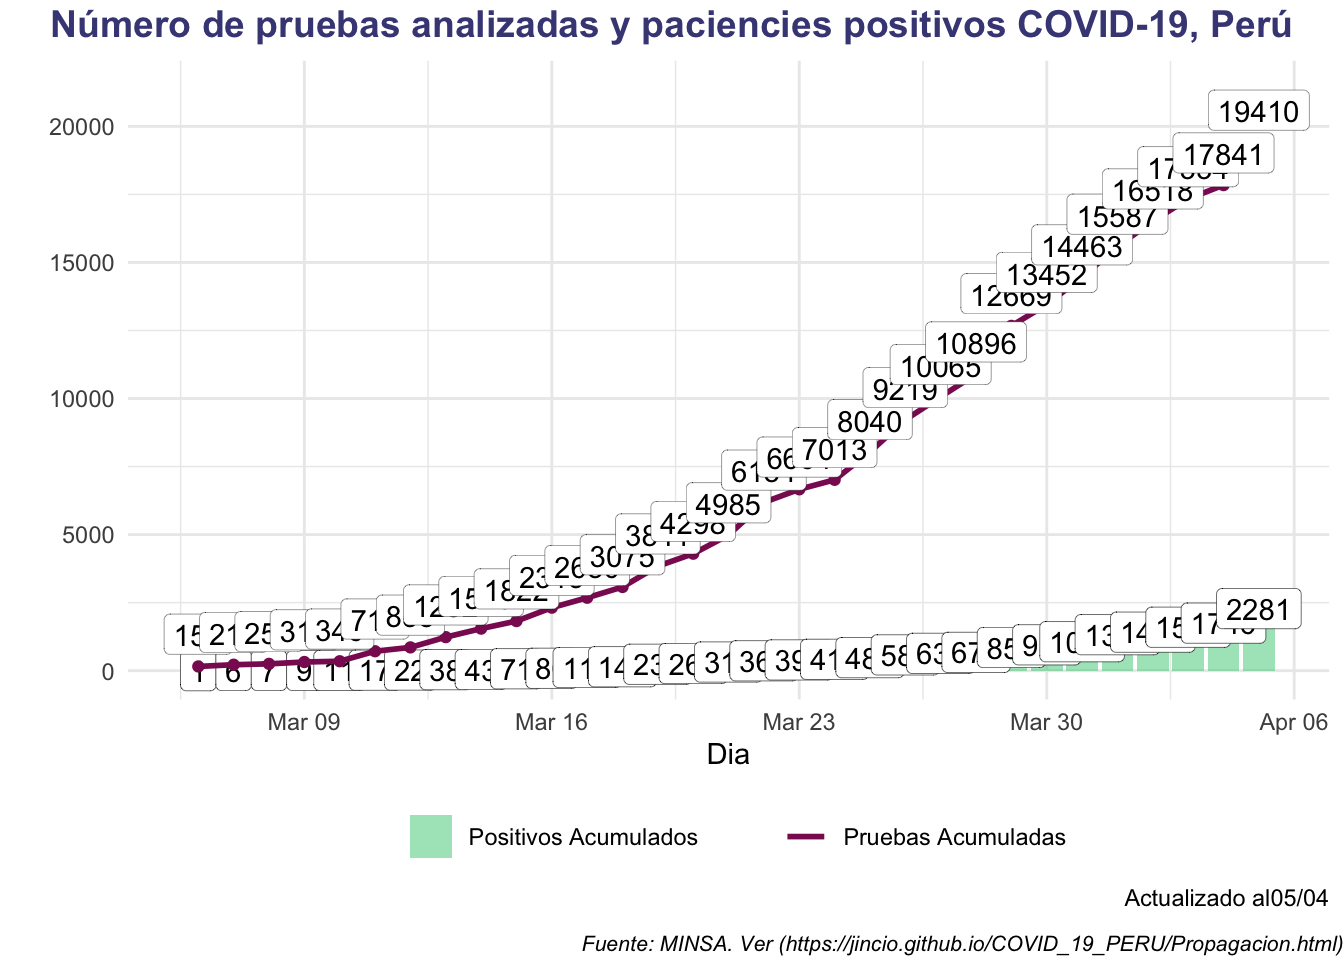
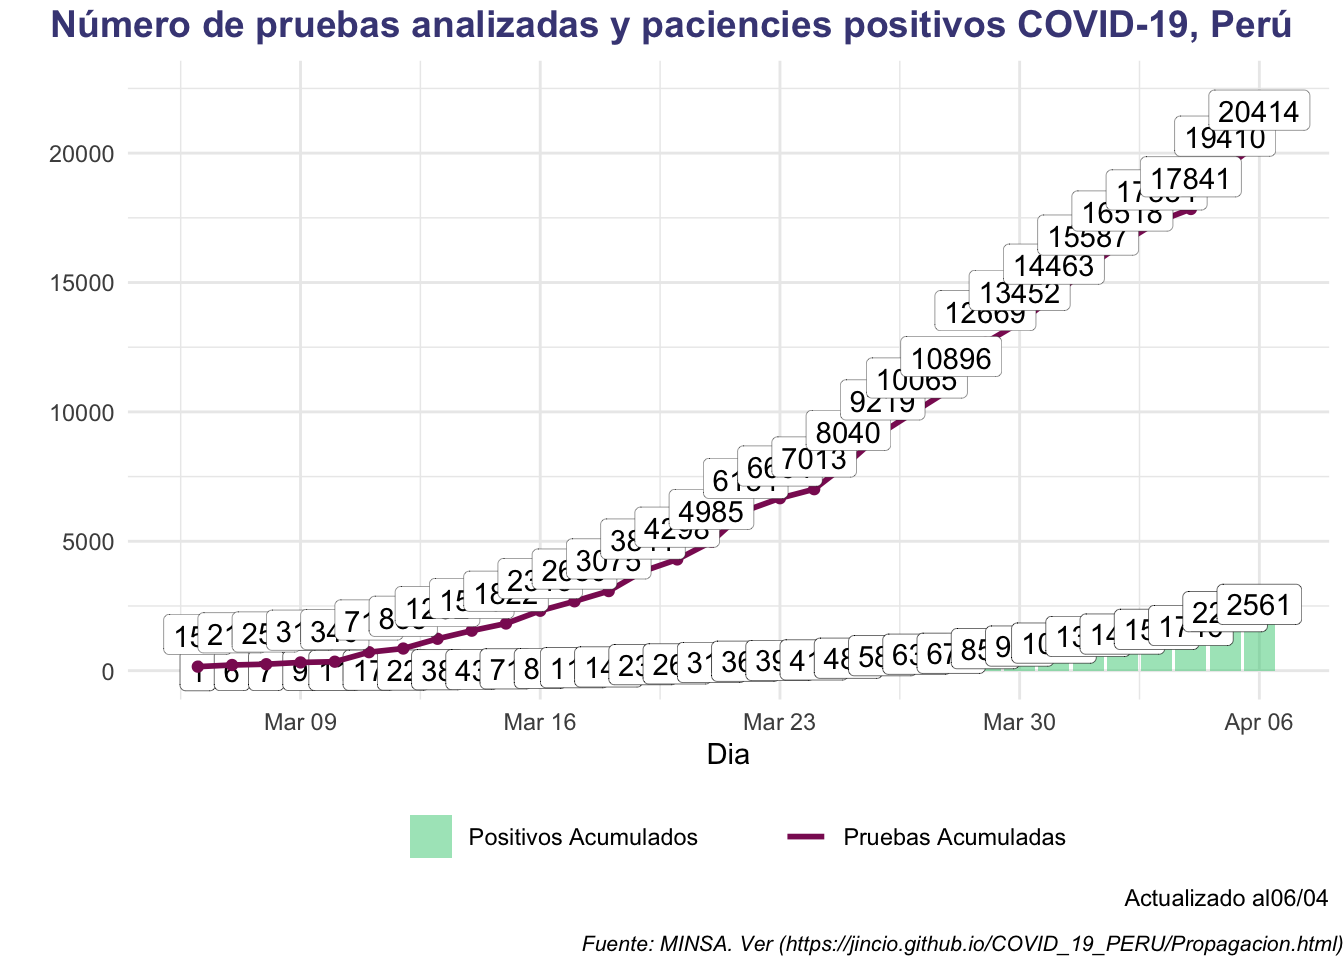
update 06_04

diff --git a/docs/Departamentos.html b/docs/Departamentos.html
@@ -405,8 +405,8 @@ div.tocify {
 </div>
 <div id="tabla" class="section level1">
 <h1><span class="header-section-number">3</span> Tabla</h1>
-<div id="htmlwidget-09f57af056a2a5411986" style="width:100%;height:auto;" class="datatables html-widget"></div>
-<script type="application/json" data-for="htmlwidget-09f57af056a2a5411986">{"x":{"filter":"none","data":[["LIMA","LORETO","LAMBAYEQUE","CALLAO","CUSCO","AREQUIPA","LA LIBERTAD","PIURA","TUMBES","JUNIN","ANCASH","ICA","TACNA","SAN MARTIN","CAJAMARCA","HUANUCO","AYACUCHO","PASCO","MADRE DE DIOS","HUANCAVELICA","APURIMAC","MOQUEGUA","LIMA","LORETO","CALLAO","LAMBAYEQUE","LA LIBERTAD","CUSCO","AREQUIPA","PIURA","JUNIN","TUMBES","ANCASH","ICA","SAN MARTIN","CAJAMARCA","HUANUCO","TACNA","MADRE DE DIOS","PASCO","AYACUCHO","HUANCAVELICA","APURIMAC","LIMA","LORETO","CALLAO","CUSCO","LA LIBERTAD","AREQUIPA","LAMBAYEQUE","PIURA","JUNIN","ANCASH","TUMBES","ICA","HUANUCO","SAN MARTIN","CAJAMARCA","TACNA","MADRE DE DIOS","AYACUCHO","HUANCAVELICA","PASCO","APURIMAC","LIMA","LORETO","CALLAO","CUSCO","LAMBAYEQUE","LA LIBERTAD","AREQUIPA","PIURA","JUNIN","ANCASH","TUMBES","ICA","HUANUCO","SAN MARTIN","CAJAMARCA","TACNA","MADRE DE DIOS","PASCO","AYACUCHO","HUANCAVELICA","LIMA","LORETO","CALLAO","LAMBAYEQUE","CUSCO","LA LIBERTAD","AREQUIPA","PIURA","JUNIN","ANCASH","TUMBES","ICA","HUANUCO","SAN MARTIN","TACNA","CAJAMARCA","MADRE DE DIOS","PASCO","AYACUCHO","HUANCAVELICA","LIMA","LORETO","LAMBAYEQUE","CUSCO","AREQUIPA","CALLAO","PIURA","LA LIBERTAD","JUNIN","ANCASH","TUMBES","HUANUCO","SAN MARTIN","ICA","TACNA","MADRE DE DIOS","CAJAMARCA","PASCO","AYACUCHO","LIMA","LORETO","CUSCO","CALLAO","LAMBAYEQUE","PIURA","AREQUIPA","LA LIBERTAD","JUNIN","ANCASH","TUMBES","ICA","SAN MARTIN","HUANUCO","MADRE DE DIOS","CAJAMARCA","PASCO","TACNA","AYACUCHO","LIMA","LORETO","CALLAO","LAMBAYEQUE","PIURA","CUSCO","AREQUIPA","JUNIN","LA LIBERTAD","TUMBES","ANCASH","ICA","HUANUCO","SAN MARTIN","MADRE DE DIOS","CAJAMARCA","PASCO","TACNA","AYACUCHO","LIMA","LORETO","PIURA","CALLAO","LAMBAYEQUE","AREQUIPA","JUNIN","CUSCO","LA LIBERTAD","ANCASH","TUMBES","HUANUCO","ICA","SAN MARTIN","MADRE DE DIOS","CAJAMARCA","PASCO","LIMA","LORETO","PIURA","CALLAO","AREQUIPA","LAMBAYEQUE","JUNIN","CUSCO","LA LIBERTAD","ANCASH","TUMBES","HUANUCO","ICA","MADRE DE DIOS","SAN MARTIN","CAJAMARCA","PASCO","LIMA","PIURA","LORETO","CALLAO","AREQUIPA","LAMBAYEQUE","JUNIN","CUSCO","LA LIBERTAD","ANCASH","ICA","TUMBES","HUANUCO","MADRE DE DIOS","SAN MARTIN","CAJAMARCA","LIMA","PIURA","LORETO","LAMBAYEQUE","JUNIN","CALLAO","CUSCO","AREQUIPA","LA LIBERTAD","ANCASH","TUMBES","HUANUCO","ICA","MADRE DE DIOS","SAN MARTIN","CAJAMARCA","LIMA","PIURA","LORETO","JUNIN","AREQUIPA","LAMBAYEQUE","CALLAO","CUSCO","LA LIBERTAD","ANCASH","TUMBES","HUANUCO","ICA","MADRE DE DIOS","SAN MARTIN","LIMA","PIURA","LORETO","JUNIN","LAMBAYEQUE","CALLAO","AREQUIPA","CUSCO","LA LIBERTAD","ANCASH","HUANUCO","ICA","MADRE DE DIOS","SAN MARTIN","LIMA","PIURA","LORETO","JUNIN","LAMBAYEQUE","AREQUIPA","CALLAO","LA LIBERTAD","CUSCO","ANCASH","HUANUCO","ICA","MADRE DE DIOS","LIMA","PIURA","LORETO","JUNIN","LAMBAYEQUE","CALLAO","LA LIBERTAD","CUSCO","ANCASH","AREQUIPA","HUANUCO","ICA","MADRE DE DIOS","LIMA","LORETO","JUNIN","LAMBAYEQUE","CALLAO","CUSCO","ANCASH","AREQUIPA","HUANUCO","LA LIBERTAD","PIURA","ICA","MADRE DE DIOS","LIMA","LORETO","LAMBAYEQUE","CALLAO","ANCASH","CUSCO","AREQUIPA","LA LIBERTAD","HUANUCO","PIURA","ICA","MADRE DE DIOS","SAN MARTIN","LIMA","LORETO","LAMBAYEQUE","CALLAO","ANCASH","AREQUIPA","HUANUCO","LA LIBERTAD","PIURA","CUSCO","ICA","MADRE DE DIOS","LIMA","LAMBAYEQUE","CALLAO","AREQUIPA","HUANUCO","PIURA","ANCASH","CUSCO","ICA","LA LIBERTAD","LORETO","LIMA","CALLAO","LAMBAYEQUE","AREQUIPA","HUANUCO","PIURA","ANCASH","CUSCO","ICA","LA LIBERTAD","LIMA","AREQUIPA","CALLAO","HUANUCO","PIURA","ANCASH","CUSCO","ICA","LA LIBERTAD","LAMBAYEQUE","LIMA","AREQUIPA","HUANUCO","CUSCO","ICA","LIMA","AREQUIPA","HUANUCO","CUSCO","ICA","LIMA","LIMA","LIMA","LIMA","LIMA","LIMA","LIMA"],[1639,143,100,89,52,51,50,29,26,25,23,14,9,8,6,6,3,3,2,1,1,1,1257,106,64,55,50,48,37,27,25,20,18,9,8,6,6,3,2,2,1,1,1,1179,84,59,44,44,37,35,27,19,18,16,8,6,6,4,3,2,1,1,1,1,1059,72,40,38,37,34,30,27,17,15,15,8,6,6,3,3,1,1,1,1,990,66,37,34,34,32,30,26,17,15,13,8,6,6,3,2,1,1,1,1,799,58,30,26,26,25,21,19,17,11,10,6,6,5,2,1,1,1,1,718,53,25,24,22,21,21,15,13,11,8,5,5,4,1,1,1,1,1,639,52,29,22,21,17,15,13,13,8,6,5,4,3,1,1,1,1,1,518,27,20,18,15,15,12,11,10,6,6,4,4,2,1,1,1,494,23,20,17,15,13,12,10,9,6,5,4,3,1,1,1,1,453,20,18,15,15,12,11,10,9,6,3,3,2,1,1,1,369,19,18,12,11,10,10,10,6,5,3,2,2,1,1,1,322,19,16,10,9,8,8,6,5,4,3,2,2,1,1,307,19,16,10,8,8,7,6,4,4,2,2,1,1,278,19,16,10,8,7,6,5,4,4,4,1,1,241,18,14,10,8,6,5,4,4,4,2,1,1,212,12,9,6,5,4,4,3,2,2,2,1,1,193,11,6,5,4,4,3,2,2,2,1,1,1,111,10,6,5,2,2,2,2,2,1,1,1,96,6,4,2,2,2,1,1,1,1,1,70,3,3,2,2,2,1,1,1,1,58,2,2,2,2,1,1,1,1,1,37,2,2,1,1,32,2,2,1,1,22,17,11,9,7,6,1],["2020-04-05","2020-04-05","2020-04-05","2020-04-05","2020-04-05","2020-04-05","2020-04-05","2020-04-05","2020-04-05","2020-04-05","2020-04-05","2020-04-05","2020-04-05","2020-04-05","2020-04-05","2020-04-05","2020-04-05","2020-04-05","2020-04-05","2020-04-05","2020-04-05","2020-04-05","2020-04-04","2020-04-04","2020-04-04","2020-04-04","2020-04-04","2020-04-04","2020-04-04","2020-04-04","2020-04-04","2020-04-04","2020-04-04","2020-04-04","2020-04-04","2020-04-04","2020-04-04","2020-04-04","2020-04-04","2020-04-04","2020-04-04","2020-04-04","2020-04-04","2020-04-03","2020-04-03","2020-04-03","2020-04-03","2020-04-03","2020-04-03","2020-04-03","2020-04-03","2020-04-03","2020-04-03","2020-04-03","2020-04-03","2020-04-03","2020-04-03","2020-04-03","2020-04-03","2020-04-03","2020-04-03","2020-04-03","2020-04-03","2020-04-03","2020-04-02","2020-04-02","2020-04-02","2020-04-02","2020-04-02","2020-04-02","2020-04-02","2020-04-02","2020-04-02","2020-04-02","2020-04-02","2020-04-02","2020-04-02","2020-04-02","2020-04-02","2020-04-02","2020-04-02","2020-04-02","2020-04-02","2020-04-02","2020-04-01","2020-04-01","2020-04-01","2020-04-01","2020-04-01","2020-04-01","2020-04-01","2020-04-01","2020-04-01","2020-04-01","2020-04-01","2020-04-01","2020-04-01","2020-04-01","2020-04-01","2020-04-01","2020-04-01","2020-04-01","2020-04-01","2020-04-01","2020-03-31","2020-03-31","2020-03-31","2020-03-31","2020-03-31","2020-03-31","2020-03-31","2020-03-31","2020-03-31","2020-03-31","2020-03-31","2020-03-31","2020-03-31","2020-03-31","2020-03-31","2020-03-31","2020-03-31","2020-03-31","2020-03-31","2020-03-30","2020-03-30","2020-03-30","2020-03-30","2020-03-30","2020-03-30","2020-03-30","2020-03-30","2020-03-30","2020-03-30","2020-03-30","2020-03-30","2020-03-30","2020-03-30","2020-03-30","2020-03-30","2020-03-30","2020-03-30","2020-03-30","2020-03-29","2020-03-29","2020-03-29","2020-03-29","2020-03-29","2020-03-29","2020-03-29","2020-03-29","2020-03-29","2020-03-29","2020-03-29","2020-03-29","2020-03-29","2020-03-29","2020-03-29","2020-03-29","2020-03-29","2020-03-29","2020-03-29","2020-03-28","2020-03-28","2020-03-28","2020-03-28","2020-03-28","2020-03-28","2020-03-28","2020-03-28","2020-03-28","2020-03-28","2020-03-28","2020-03-28","2020-03-28","2020-03-28","2020-03-28","2020-03-28","2020-03-28","2020-03-27","2020-03-27","2020-03-27","2020-03-27","2020-03-27","2020-03-27","2020-03-27","2020-03-27","2020-03-27","2020-03-27","2020-03-27","2020-03-27","2020-03-27","2020-03-27","2020-03-27","2020-03-27","2020-03-27","2020-03-26","2020-03-26","2020-03-26","2020-03-26","2020-03-26","2020-03-26","2020-03-26","2020-03-26","2020-03-26","2020-03-26","2020-03-26","2020-03-26","2020-03-26","2020-03-26","2020-03-26","2020-03-26","2020-03-25","2020-03-25","2020-03-25","2020-03-25","2020-03-25","2020-03-25","2020-03-25","2020-03-25","2020-03-25","2020-03-25","2020-03-25","2020-03-25","2020-03-25","2020-03-25","2020-03-25","2020-03-25","2020-03-24","2020-03-24","2020-03-24","2020-03-24","2020-03-24","2020-03-24","2020-03-24","2020-03-24","2020-03-24","2020-03-24","2020-03-24","2020-03-24","2020-03-24","2020-03-24","2020-03-24","2020-03-23","2020-03-23","2020-03-23","2020-03-23","2020-03-23","2020-03-23","2020-03-23","2020-03-23","2020-03-23","2020-03-23","2020-03-23","2020-03-23","2020-03-23","2020-03-23","2020-03-22","2020-03-22","2020-03-22","2020-03-22","2020-03-22","2020-03-22","2020-03-22","2020-03-22","2020-03-22","2020-03-22","2020-03-22","2020-03-22","2020-03-22","2020-03-21","2020-03-21","2020-03-21","2020-03-21","2020-03-21","2020-03-21","2020-03-21","2020-03-21","2020-03-21","2020-03-21","2020-03-21","2020-03-21","2020-03-21","2020-03-20","2020-03-20","2020-03-20","2020-03-20","2020-03-20","2020-03-20","2020-03-20","2020-03-20","2020-03-20","2020-03-20","2020-03-20","2020-03-20","2020-03-20","2020-03-19","2020-03-19","2020-03-19","2020-03-19","2020-03-19","2020-03-19","2020-03-19","2020-03-19","2020-03-19","2020-03-19","2020-03-19","2020-03-19","2020-03-19","2020-03-18","2020-03-18","2020-03-18","2020-03-18","2020-03-18","2020-03-18","2020-03-18","2020-03-18","2020-03-18","2020-03-18","2020-03-18","2020-03-18","2020-03-17","2020-03-17","2020-03-17","2020-03-17","2020-03-17","2020-03-17","2020-03-17","2020-03-17","2020-03-17","2020-03-17","2020-03-17","2020-03-16","2020-03-16","2020-03-16","2020-03-16","2020-03-16","2020-03-16","2020-03-16","2020-03-16","2020-03-16","2020-03-16","2020-03-15","2020-03-15","2020-03-15","2020-03-15","2020-03-15","2020-03-15","2020-03-15","2020-03-15","2020-03-15","2020-03-15","2020-03-14","2020-03-14","2020-03-14","2020-03-14","2020-03-14","2020-03-13","2020-03-13","2020-03-13","2020-03-13","2020-03-13","2020-03-12","2020-03-11","2020-03-10","2020-03-09","2020-03-08","2020-03-07","2020-03-06"]],"container":"<table class=\"display\">\n  <thead>\n    <tr>\n      <th>REGION<\/th>\n      <th>Positivos<\/th>\n      <th>Dia<\/th>\n    <\/tr>\n  <\/thead>\n<\/table>","options":{"pageLength":10,"lengthMenu":[10,25,40],"language":{"lengthMenu":"Mostrar _MENU_ entradas","info":"Mostrando _START_ al _END_ de _TOTAL_ entradas","search":"Buscar:","paginate":{"previous":"Anterior","next":"Siguiente"}},"columnDefs":[{"className":"dt-right","targets":1}],"order":[],"autoWidth":false,"orderClasses":false}},"evals":[],"jsHooks":[]}</script>
+<div id="htmlwidget-8e93b0070efe15a7f5c4" style="width:100%;height:auto;" class="datatables html-widget"></div>
+<script type="application/json" data-for="htmlwidget-8e93b0070efe15a7f5c4">{"x":{"filter":"none","data":[["LIMA","LORETO","CALLAO","LAMBAYEQUE","AREQUIPA","LA LIBERTAD","CUSCO","PIURA","JUNIN","ANCASH","TUMBES","ICA","TACNA","SAN MARTIN","CAJAMARCA","HUANUCO","AYACUCHO","PASCO","HUANCAVELICA","MADRE DE DIOS","APURIMAC","MOQUEGUA","LIMA","LORETO","LAMBAYEQUE","CALLAO","CUSCO","AREQUIPA","LA LIBERTAD","PIURA","TUMBES","JUNIN","ANCASH","ICA","TACNA","SAN MARTIN","CAJAMARCA","HUANUCO","AYACUCHO","PASCO","MADRE DE DIOS","HUANCAVELICA","APURIMAC","MOQUEGUA","LIMA","LORETO","CALLAO","LAMBAYEQUE","LA LIBERTAD","CUSCO","AREQUIPA","PIURA","JUNIN","TUMBES","ANCASH","ICA","SAN MARTIN","CAJAMARCA","HUANUCO","TACNA","MADRE DE DIOS","PASCO","AYACUCHO","HUANCAVELICA","APURIMAC","LIMA","LORETO","CALLAO","CUSCO","LA LIBERTAD","AREQUIPA","LAMBAYEQUE","PIURA","JUNIN","ANCASH","TUMBES","ICA","HUANUCO","SAN MARTIN","CAJAMARCA","TACNA","MADRE DE DIOS","AYACUCHO","HUANCAVELICA","PASCO","APURIMAC","LIMA","LORETO","CALLAO","CUSCO","LAMBAYEQUE","LA LIBERTAD","AREQUIPA","PIURA","JUNIN","ANCASH","TUMBES","ICA","HUANUCO","SAN MARTIN","CAJAMARCA","TACNA","MADRE DE DIOS","PASCO","AYACUCHO","HUANCAVELICA","LIMA","LORETO","CALLAO","LAMBAYEQUE","CUSCO","LA LIBERTAD","AREQUIPA","PIURA","JUNIN","ANCASH","TUMBES","ICA","HUANUCO","SAN MARTIN","TACNA","CAJAMARCA","MADRE DE DIOS","PASCO","AYACUCHO","HUANCAVELICA","LIMA","LORETO","LAMBAYEQUE","CUSCO","AREQUIPA","CALLAO","PIURA","LA LIBERTAD","JUNIN","ANCASH","TUMBES","HUANUCO","SAN MARTIN","ICA","TACNA","MADRE DE DIOS","CAJAMARCA","PASCO","AYACUCHO","LIMA","LORETO","CUSCO","CALLAO","LAMBAYEQUE","PIURA","AREQUIPA","LA LIBERTAD","JUNIN","ANCASH","TUMBES","ICA","SAN MARTIN","HUANUCO","MADRE DE DIOS","CAJAMARCA","PASCO","TACNA","AYACUCHO","LIMA","LORETO","CALLAO","LAMBAYEQUE","PIURA","CUSCO","AREQUIPA","JUNIN","LA LIBERTAD","TUMBES","ANCASH","ICA","HUANUCO","SAN MARTIN","MADRE DE DIOS","CAJAMARCA","PASCO","TACNA","AYACUCHO","LIMA","LORETO","PIURA","CALLAO","LAMBAYEQUE","AREQUIPA","JUNIN","CUSCO","LA LIBERTAD","ANCASH","TUMBES","HUANUCO","ICA","SAN MARTIN","MADRE DE DIOS","CAJAMARCA","PASCO","LIMA","LORETO","PIURA","CALLAO","AREQUIPA","LAMBAYEQUE","JUNIN","CUSCO","LA LIBERTAD","ANCASH","TUMBES","HUANUCO","ICA","MADRE DE DIOS","SAN MARTIN","CAJAMARCA","PASCO","LIMA","PIURA","LORETO","CALLAO","AREQUIPA","LAMBAYEQUE","JUNIN","CUSCO","LA LIBERTAD","ANCASH","ICA","TUMBES","HUANUCO","MADRE DE DIOS","SAN MARTIN","CAJAMARCA","LIMA","PIURA","LORETO","LAMBAYEQUE","JUNIN","CALLAO","CUSCO","AREQUIPA","LA LIBERTAD","ANCASH","TUMBES","HUANUCO","ICA","MADRE DE DIOS","SAN MARTIN","CAJAMARCA","LIMA","PIURA","LORETO","JUNIN","AREQUIPA","LAMBAYEQUE","CALLAO","CUSCO","LA LIBERTAD","ANCASH","TUMBES","HUANUCO","ICA","MADRE DE DIOS","SAN MARTIN","LIMA","PIURA","LORETO","JUNIN","LAMBAYEQUE","CALLAO","AREQUIPA","CUSCO","LA LIBERTAD","ANCASH","HUANUCO","ICA","MADRE DE DIOS","SAN MARTIN","LIMA","PIURA","LORETO","JUNIN","LAMBAYEQUE","AREQUIPA","CALLAO","LA LIBERTAD","CUSCO","ANCASH","HUANUCO","ICA","MADRE DE DIOS","LIMA","PIURA","LORETO","JUNIN","LAMBAYEQUE","CALLAO","LA LIBERTAD","CUSCO","ANCASH","AREQUIPA","HUANUCO","ICA","MADRE DE DIOS","LIMA","LORETO","JUNIN","LAMBAYEQUE","CALLAO","CUSCO","ANCASH","AREQUIPA","HUANUCO","LA LIBERTAD","PIURA","ICA","MADRE DE DIOS","LIMA","LORETO","LAMBAYEQUE","CALLAO","ANCASH","CUSCO","AREQUIPA","LA LIBERTAD","HUANUCO","PIURA","ICA","MADRE DE DIOS","SAN MARTIN","LIMA","LORETO","LAMBAYEQUE","CALLAO","ANCASH","AREQUIPA","HUANUCO","LA LIBERTAD","PIURA","CUSCO","ICA","MADRE DE DIOS","LIMA","LAMBAYEQUE","CALLAO","AREQUIPA","HUANUCO","PIURA","ANCASH","CUSCO","ICA","LA LIBERTAD","LORETO","LIMA","CALLAO","LAMBAYEQUE","AREQUIPA","HUANUCO","PIURA","ANCASH","CUSCO","ICA","LA LIBERTAD","LIMA","AREQUIPA","CALLAO","HUANUCO","PIURA","ANCASH","CUSCO","ICA","LA LIBERTAD","LAMBAYEQUE","LIMA","AREQUIPA","HUANUCO","CUSCO","ICA","LIMA","AREQUIPA","HUANUCO","CUSCO","ICA","LIMA","LIMA","LIMA","LIMA","LIMA","LIMA","LIMA"],[1837,171,109,100,60,56,54,30,28,27,26,18,9,8,6,6,5,5,2,2,1,1,1639,143,100,89,52,51,50,29,26,25,23,14,9,8,6,6,3,3,2,1,1,1,1257,106,64,55,50,48,37,27,25,20,18,9,8,6,6,3,2,2,1,1,1,1179,84,59,44,44,37,35,27,19,18,16,8,6,6,4,3,2,1,1,1,1,1059,72,40,38,37,34,30,27,17,15,15,8,6,6,3,3,1,1,1,1,990,66,37,34,34,32,30,26,17,15,13,8,6,6,3,2,1,1,1,1,799,58,30,26,26,25,21,19,17,11,10,6,6,5,2,1,1,1,1,718,53,25,24,22,21,21,15,13,11,8,5,5,4,1,1,1,1,1,639,52,29,22,21,17,15,13,13,8,6,5,4,3,1,1,1,1,1,518,27,20,18,15,15,12,11,10,6,6,4,4,2,1,1,1,494,23,20,17,15,13,12,10,9,6,5,4,3,1,1,1,1,453,20,18,15,15,12,11,10,9,6,3,3,2,1,1,1,369,19,18,12,11,10,10,10,6,5,3,2,2,1,1,1,322,19,16,10,9,8,8,6,5,4,3,2,2,1,1,307,19,16,10,8,8,7,6,4,4,2,2,1,1,278,19,16,10,8,7,6,5,4,4,4,1,1,241,18,14,10,8,6,5,4,4,4,2,1,1,212,12,9,6,5,4,4,3,2,2,2,1,1,193,11,6,5,4,4,3,2,2,2,1,1,1,111,10,6,5,2,2,2,2,2,1,1,1,96,6,4,2,2,2,1,1,1,1,1,70,3,3,2,2,2,1,1,1,1,58,2,2,2,2,1,1,1,1,1,37,2,2,1,1,32,2,2,1,1,22,17,11,9,7,6,1],["2020-04-06","2020-04-06","2020-04-06","2020-04-06","2020-04-06","2020-04-06","2020-04-06","2020-04-06","2020-04-06","2020-04-06","2020-04-06","2020-04-06","2020-04-06","2020-04-06","2020-04-06","2020-04-06","2020-04-06","2020-04-06","2020-04-06","2020-04-06","2020-04-06","2020-04-06","2020-04-05","2020-04-05","2020-04-05","2020-04-05","2020-04-05","2020-04-05","2020-04-05","2020-04-05","2020-04-05","2020-04-05","2020-04-05","2020-04-05","2020-04-05","2020-04-05","2020-04-05","2020-04-05","2020-04-05","2020-04-05","2020-04-05","2020-04-05","2020-04-05","2020-04-05","2020-04-04","2020-04-04","2020-04-04","2020-04-04","2020-04-04","2020-04-04","2020-04-04","2020-04-04","2020-04-04","2020-04-04","2020-04-04","2020-04-04","2020-04-04","2020-04-04","2020-04-04","2020-04-04","2020-04-04","2020-04-04","2020-04-04","2020-04-04","2020-04-04","2020-04-03","2020-04-03","2020-04-03","2020-04-03","2020-04-03","2020-04-03","2020-04-03","2020-04-03","2020-04-03","2020-04-03","2020-04-03","2020-04-03","2020-04-03","2020-04-03","2020-04-03","2020-04-03","2020-04-03","2020-04-03","2020-04-03","2020-04-03","2020-04-03","2020-04-02","2020-04-02","2020-04-02","2020-04-02","2020-04-02","2020-04-02","2020-04-02","2020-04-02","2020-04-02","2020-04-02","2020-04-02","2020-04-02","2020-04-02","2020-04-02","2020-04-02","2020-04-02","2020-04-02","2020-04-02","2020-04-02","2020-04-02","2020-04-01","2020-04-01","2020-04-01","2020-04-01","2020-04-01","2020-04-01","2020-04-01","2020-04-01","2020-04-01","2020-04-01","2020-04-01","2020-04-01","2020-04-01","2020-04-01","2020-04-01","2020-04-01","2020-04-01","2020-04-01","2020-04-01","2020-04-01","2020-03-31","2020-03-31","2020-03-31","2020-03-31","2020-03-31","2020-03-31","2020-03-31","2020-03-31","2020-03-31","2020-03-31","2020-03-31","2020-03-31","2020-03-31","2020-03-31","2020-03-31","2020-03-31","2020-03-31","2020-03-31","2020-03-31","2020-03-30","2020-03-30","2020-03-30","2020-03-30","2020-03-30","2020-03-30","2020-03-30","2020-03-30","2020-03-30","2020-03-30","2020-03-30","2020-03-30","2020-03-30","2020-03-30","2020-03-30","2020-03-30","2020-03-30","2020-03-30","2020-03-30","2020-03-29","2020-03-29","2020-03-29","2020-03-29","2020-03-29","2020-03-29","2020-03-29","2020-03-29","2020-03-29","2020-03-29","2020-03-29","2020-03-29","2020-03-29","2020-03-29","2020-03-29","2020-03-29","2020-03-29","2020-03-29","2020-03-29","2020-03-28","2020-03-28","2020-03-28","2020-03-28","2020-03-28","2020-03-28","2020-03-28","2020-03-28","2020-03-28","2020-03-28","2020-03-28","2020-03-28","2020-03-28","2020-03-28","2020-03-28","2020-03-28","2020-03-28","2020-03-27","2020-03-27","2020-03-27","2020-03-27","2020-03-27","2020-03-27","2020-03-27","2020-03-27","2020-03-27","2020-03-27","2020-03-27","2020-03-27","2020-03-27","2020-03-27","2020-03-27","2020-03-27","2020-03-27","2020-03-26","2020-03-26","2020-03-26","2020-03-26","2020-03-26","2020-03-26","2020-03-26","2020-03-26","2020-03-26","2020-03-26","2020-03-26","2020-03-26","2020-03-26","2020-03-26","2020-03-26","2020-03-26","2020-03-25","2020-03-25","2020-03-25","2020-03-25","2020-03-25","2020-03-25","2020-03-25","2020-03-25","2020-03-25","2020-03-25","2020-03-25","2020-03-25","2020-03-25","2020-03-25","2020-03-25","2020-03-25","2020-03-24","2020-03-24","2020-03-24","2020-03-24","2020-03-24","2020-03-24","2020-03-24","2020-03-24","2020-03-24","2020-03-24","2020-03-24","2020-03-24","2020-03-24","2020-03-24","2020-03-24","2020-03-23","2020-03-23","2020-03-23","2020-03-23","2020-03-23","2020-03-23","2020-03-23","2020-03-23","2020-03-23","2020-03-23","2020-03-23","2020-03-23","2020-03-23","2020-03-23","2020-03-22","2020-03-22","2020-03-22","2020-03-22","2020-03-22","2020-03-22","2020-03-22","2020-03-22","2020-03-22","2020-03-22","2020-03-22","2020-03-22","2020-03-22","2020-03-21","2020-03-21","2020-03-21","2020-03-21","2020-03-21","2020-03-21","2020-03-21","2020-03-21","2020-03-21","2020-03-21","2020-03-21","2020-03-21","2020-03-21","2020-03-20","2020-03-20","2020-03-20","2020-03-20","2020-03-20","2020-03-20","2020-03-20","2020-03-20","2020-03-20","2020-03-20","2020-03-20","2020-03-20","2020-03-20","2020-03-19","2020-03-19","2020-03-19","2020-03-19","2020-03-19","2020-03-19","2020-03-19","2020-03-19","2020-03-19","2020-03-19","2020-03-19","2020-03-19","2020-03-19","2020-03-18","2020-03-18","2020-03-18","2020-03-18","2020-03-18","2020-03-18","2020-03-18","2020-03-18","2020-03-18","2020-03-18","2020-03-18","2020-03-18","2020-03-17","2020-03-17","2020-03-17","2020-03-17","2020-03-17","2020-03-17","2020-03-17","2020-03-17","2020-03-17","2020-03-17","2020-03-17","2020-03-16","2020-03-16","2020-03-16","2020-03-16","2020-03-16","2020-03-16","2020-03-16","2020-03-16","2020-03-16","2020-03-16","2020-03-15","2020-03-15","2020-03-15","2020-03-15","2020-03-15","2020-03-15","2020-03-15","2020-03-15","2020-03-15","2020-03-15","2020-03-14","2020-03-14","2020-03-14","2020-03-14","2020-03-14","2020-03-13","2020-03-13","2020-03-13","2020-03-13","2020-03-13","2020-03-12","2020-03-11","2020-03-10","2020-03-09","2020-03-08","2020-03-07","2020-03-06"]],"container":"<table class=\"display\">\n  <thead>\n    <tr>\n      <th>REGION<\/th>\n      <th>Positivos<\/th>\n      <th>Dia<\/th>\n    <\/tr>\n  <\/thead>\n<\/table>","options":{"pageLength":10,"lengthMenu":[10,25,40],"language":{"lengthMenu":"Mostrar _MENU_ entradas","info":"Mostrando _START_ al _END_ de _TOTAL_ entradas","search":"Buscar:","paginate":{"previous":"Anterior","next":"Siguiente"}},"columnDefs":[{"className":"dt-right","targets":1}],"order":[],"autoWidth":false,"orderClasses":false}},"evals":[],"jsHooks":[]}</script>
 </div>
 
 

diff --git a/docs/Propagacion.html b/docs/Propagacion.html
@@ -414,8 +414,8 @@ div.tocify {
 </div>
 <div id="tabla" class="section level2">
 <h2><span class="header-section-number">1.7</span> Tabla</h2>
-<div id="htmlwidget-3db996b60d529834948b" style="width:100%;height:auto;" class="datatables html-widget"></div>
-<script type="application/json" data-for="htmlwidget-3db996b60d529834948b">{"x":{"filter":"none","data":[["2020-04-05","2020-04-04","2020-04-03","2020-04-02","2020-04-01","2020-03-31","2020-03-30","2020-03-29","2020-03-28","2020-03-27","2020-03-26","2020-03-25","2020-03-24","2020-03-23","2020-03-22","2020-03-21","2020-03-20","2020-03-19","2020-03-18","2020-03-17","2020-03-16","2020-03-15","2020-03-14","2020-03-13","2020-03-12","2020-03-11","2020-03-10","2020-03-09","2020-03-08","2020-03-07","2020-03-06"],[19410,17841,17334,16518,15587,14463,13452,12669,10896,10065,9219,8040,7013,6664,6184,4985,4298,3841,3075,2680,2315,1822,1545,1232,855,714,346,318,250,219,155],[2281,1746,1595,1414,1323,1065,950,852,671,635,580,480,416,395,363,318,263,234,145,117,86,71,43,38,22,17,11,9,7,6,1],[17129,16095,15739,15104,14264,13398,12502,11817,10225,9430,8639,7560,6597,6269,5821,4667,4035,3607,2930,2563,2229,1751,1502,1194,833,697,335,309,243,213,154],[11.75,9.79,9.2,8.56,8.49,7.36,7.06,6.73,6.16,6.31,6.29,5.97,5.93,5.93,5.87,6.38,6.12,6.09,4.72,4.37,3.71,3.9,2.78,3.08,2.57,2.38,3.18,2.83,2.8,2.74,0.65]],"container":"<table class=\"display\">\n  <thead>\n    <tr>\n      <th>Dia<\/th>\n      <th>Pruebas analizadas<\/th>\n      <th>Positivos<\/th>\n      <th>Descartados<\/th>\n      <th>TasaPositivos<\/th>\n    <\/tr>\n  <\/thead>\n<\/table>","options":{"pageLength":10,"lengthMenu":[10,25,40],"language":{"lengthMenu":"Mostrar _MENU_ entradas","info":"Mostrando _START_ al _END_ de _TOTAL_ entradas","search":"Buscar:","paginate":{"previous":"Anterior","next":"Siguiente"}},"columnDefs":[{"className":"dt-right","targets":[1,2,3,4]}],"order":[],"autoWidth":false,"orderClasses":false}},"evals":[],"jsHooks":[]}</script>
+<div id="htmlwidget-578335859677d86a6e0c" style="width:100%;height:auto;" class="datatables html-widget"></div>
+<script type="application/json" data-for="htmlwidget-578335859677d86a6e0c">{"x":{"filter":"none","data":[["2020-04-06","2020-04-05","2020-04-04","2020-04-03","2020-04-02","2020-04-01","2020-03-31","2020-03-30","2020-03-29","2020-03-28","2020-03-27","2020-03-26","2020-03-25","2020-03-24","2020-03-23","2020-03-22","2020-03-21","2020-03-20","2020-03-19","2020-03-18","2020-03-17","2020-03-16","2020-03-15","2020-03-14","2020-03-13","2020-03-12","2020-03-11","2020-03-10","2020-03-09","2020-03-08","2020-03-07","2020-03-06"],[20414,19410,17841,17334,16518,15587,14463,13452,12669,10896,10065,9219,8040,7013,6664,6184,4985,4298,3841,3075,2680,2315,1822,1545,1232,855,714,346,318,250,219,155],[2561,2281,1746,1595,1414,1323,1065,950,852,671,635,580,480,416,395,363,318,263,234,145,117,86,71,43,38,22,17,11,9,7,6,1],[17853,17129,16095,15739,15104,14264,13398,12502,11817,10225,9430,8639,7560,6597,6269,5821,4667,4035,3607,2930,2563,2229,1751,1502,1194,833,697,335,309,243,213,154],[12.55,11.75,9.79,9.2,8.56,8.49,7.36,7.06,6.73,6.16,6.31,6.29,5.97,5.93,5.93,5.87,6.38,6.12,6.09,4.72,4.37,3.71,3.9,2.78,3.08,2.57,2.38,3.18,2.83,2.8,2.74,0.65]],"container":"<table class=\"display\">\n  <thead>\n    <tr>\n      <th>Dia<\/th>\n      <th>Pruebas analizadas<\/th>\n      <th>Positivos<\/th>\n      <th>Descartados<\/th>\n      <th>TasaPositivos<\/th>\n    <\/tr>\n  <\/thead>\n<\/table>","options":{"pageLength":10,"lengthMenu":[10,25,40],"language":{"lengthMenu":"Mostrar _MENU_ entradas","info":"Mostrando _START_ al _END_ de _TOTAL_ entradas","search":"Buscar:","paginate":{"previous":"Anterior","next":"Siguiente"}},"columnDefs":[{"className":"dt-right","targets":[1,2,3,4]}],"order":[],"autoWidth":false,"orderClasses":false}},"evals":[],"jsHooks":[]}</script>
 <p>Para los gráficos he adaptado del post de Gabriel Carrasco Escobar (<a href="http://gcarrasco.rbind.io/blog/covid19_viz/" class="uri">http://gcarrasco.rbind.io/blog/covid19_viz/</a>)</p>
 </div>
 </div>
